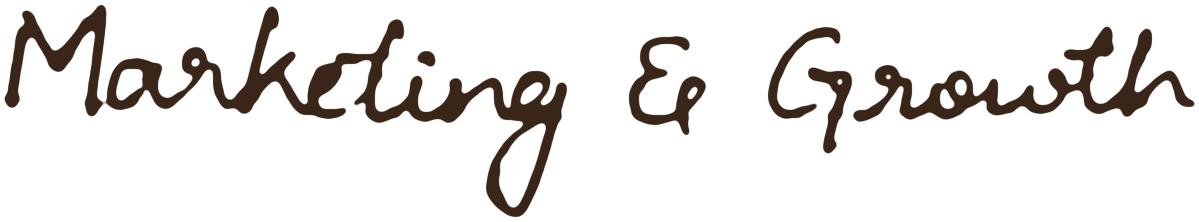
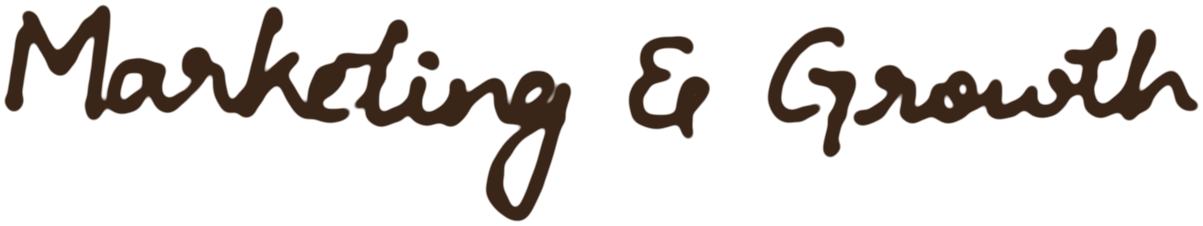
Handwriting: bolder strokes (matching her name's weight) and slightly larger, so it reads clearly at desk size

diff --git a/index.html b/index.html
@@ -11,11 +11,11 @@
 <link rel="preconnect" href="https://fonts.googleapis.com" />
 <link rel="preconnect" href="https://fonts.gstatic.com" crossorigin />
 <link href="https://fonts.googleapis.com/css2?family=Fraunces:opsz,wght,SOFT@9..144,400..800,50&display=swap" rel="stylesheet" />
-<link rel="stylesheet" href="styles/main.css?v=20261111u" />
+<link rel="stylesheet" href="styles/main.css?v=20261111v" />
 <link rel="icon" type="image/png" href="assets/logo-hy.png" />
 <!-- first-screen images: start downloading immediately (keep ?v in sync with ASSET_V in app.js) -->
-<link rel="preload" as="image" href="assets/objects/notebook.avif?v=20261111u" fetchpriority="high" />
-<link rel="preload" as="image" href="assets/signature.png?v=20261111u" fetchpriority="high" />
+<link rel="preload" as="image" href="assets/objects/notebook.avif?v=20261111v" fetchpriority="high" />
+<link rel="preload" as="image" href="assets/signature.png?v=20261111v" fetchpriority="high" />
 
 <!-- JSON-LD -->
 <script type="application/ld+json">
@@ -177,6 +177,6 @@
 <script src="vendor/ScrollTrigger.min.js"></script>
 <script src="vendor/lenis.min.js"></script>
 
-<script type="module" src="scripts/app.js?v=20261111u"></script>
+<script type="module" src="scripts/app.js?v=20261111v"></script>
 </body>
 </html>

diff --git a/styles/main.css b/styles/main.css
@@ -309,13 +309,13 @@ section { position: relative; }
 /* her handwriting (images): sizes in notebook-widths so it scales with the desk */
 .kit__type:has(.hand), .chaos-ink__title:has(.hand), .chaos-ink__tag:has(.hand) { display: grid; justify-items: center; line-height: 0; max-width: none; }
 .hand { height: auto; display: block; }
-.kit__type .hand[src*="hand-title"] { width: 40cqw; }
-.kit__type .hand[src*="hand-tagline-1"] { width: 58cqw; }
-.kit__type .hand[src*="hand-tagline-2"] { width: 35cqw; margin-top: -.6cqw; }
+.kit__type .hand[src*="hand-title"] { width: 44cqw; }
+.kit__type .hand[src*="hand-tagline-1"] { width: 62cqw; }
+.kit__type .hand[src*="hand-tagline-2"] { width: 37.4cqw; margin-top: -.6cqw; }
 .kit__sign + .kit__type:has(.hand) { margin-top: 2.2cqw; }
-.chaos-ink__title .hand { width: 21cqw; }
-.chaos-ink__tag .hand[src*="hand-tagline-1"] { width: 30.4cqw; }
-.chaos-ink__tag .hand[src*="hand-tagline-2"] { width: 18.4cqw; margin-top: -.3cqw; }
+.chaos-ink__title .hand { width: 23cqw; }
+.chaos-ink__tag .hand[src*="hand-tagline-1"] { width: 32.5cqw; }
+.chaos-ink__tag .hand[src*="hand-tagline-2"] { width: 19.6cqw; margin-top: -.3cqw; }
 
 /* instax mini print: warm white frame, 3:4 photo window, deeper bottom margin */
 .print {

diff --git a/scripts/app.js b/scripts/app.js
@@ -1,9 +1,9 @@
 // app.js — motion orchestration, desk interactions, section rendering.
-import { play, playFile } from "./sound.js?v=20261111u";
-import { initMusic } from "./music.js?v=20261111u";
+import { play, playFile } from "./sound.js?v=20261111v";
+import { initMusic } from "./music.js?v=20261111v";
 import {
   meta, about, kit, tools, experience, projects, playlist,
-} from "./content.js?v=20261111u";
+} from "./content.js?v=20261111v";
 
 const { gsap, ScrollTrigger, Lenis } = window;
 gsap.registerPlugin(ScrollTrigger);
@@ -13,7 +13,7 @@ const isMobile = matchMedia("(max-width: 860px)").matches;
 const $ = (s, r = document) => r.querySelector(s);
 const $$ = (s, r = document) => [...r.querySelectorAll(s)];
 // bump with the ?v= in index.html whenever an image in assets/ is replaced, so browsers refetch it
-const ASSET_V = "20261111u";
+const ASSET_V = "20261111v";
 
 // ------------------------------------------------------------------
 // Single shared RAF: Lenis + GSAP ticker

diff --git a/scripts/content.js b/scripts/content.js
@@ -58,8 +58,8 @@ export const kit = [
       // her own handwriting for the title and tagline (transparent PNGs, ink #3A2618).
       // Each entry = the lines of one block; the text above stays for screen readers / search.
       hand: [
-        [{ src: "assets/hand-title.png", w: 1199, h: 222, tilt: -1 }],
-        [{ src: "assets/hand-tagline-1.png", w: 1400, h: 145, tilt: 0.7 }, { src: "assets/hand-tagline-2.png", w: 845, h: 120, tilt: 0.7 }],
+        [{ src: "assets/hand-title.png", w: 1203, h: 226, tilt: -1 }],
+        [{ src: "assets/hand-tagline-1.png", w: 1400, h: 147, tilt: 0.7 }, { src: "assets/hand-tagline-2.png", w: 845, h: 123, tilt: 0.7 }],
       ] },
     desk: { x: 19, y: 12, w: 58, r: -10 },
     chaos: { x: 3, y: 53, w: 38, r: 0 },   // chaos mode: pushed to the bottom-left corner

diff --git a/scripts/music.js b/scripts/music.js
@@ -7,7 +7,7 @@
 //    press of play, so nothing from Spotify loads until a visitor asks for music.
 //    Logged-in Spotify users hear full songs; everyone else hears 30-second previews.
 
-import { isMuted, setMuted } from "./sound.js?v=20261111u";
+import { isMuted, setMuted } from "./sound.js?v=20261111v";
 
 const ICON = {
   prev: '<svg viewBox="0 0 24 24" aria-hidden="true"><path d="M11 6.5v11L2.5 12zM21.5 6.5v11L13 12z"/></svg>',
